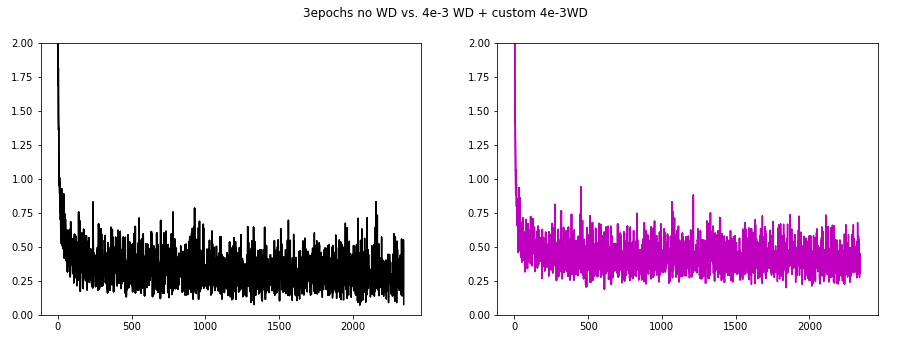
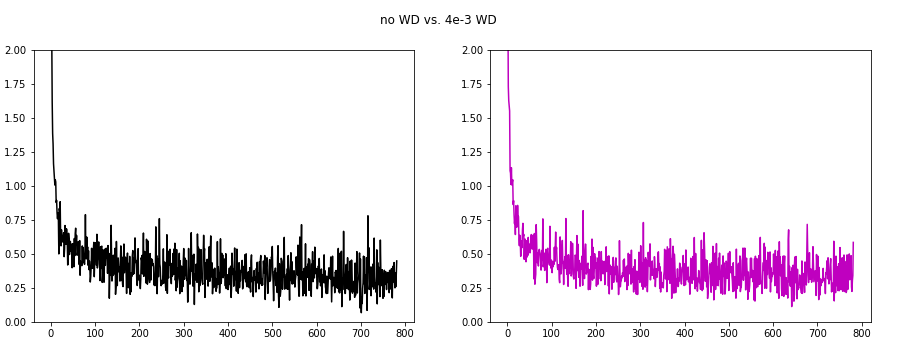
improvements

diff --git a/_posts/2019-07-02-Impact of WD.md b/_posts/2019-07-02-Impact of WD.md
@@ -3,51 +3,9 @@ published: true
 layout: post
 title: Impact of Weight Decay
 ---
-I am using in here the Logistic Regression neural network. This is a single linear layer (`nn.Linear` in PyTorch).
-
-<sub>That would be `Dense` layer in TensorFlow.</sub>
-
-This neural network doesn't even have a single activation function (`F.relu` or similar)
-
-The main reason to analyse LR is because it is simple, and can allow us to examine batch loss and impact of Weight Decay on BL.
-
-I created the following example using the MNIST dataset in PyTorch:
+Logistic Regression is a single linear layer (`nn.Linear` in PyTorch) neural network. We can write a custom module in PyTorch to create one.
 
 ```
-import torch
-import torch.nn as nn
-import torch.nn.functional as F
-from torch.utils.data import DataLoader, Dataset, TensorDataset
-from torch.optim import *
-import torchvision
-
-dl = DataLoader( torchvision.datasets.MNIST('/data/mnist', train=True, download=True), shuffle=False)
-
-tensor = dl.dataset.data
-tensor = tensor.to(dtype=torch.float32)
-tr = tensor.reshape(tensor.size(0), -1) 
-tr = tr/128 # tr = tr/255
-targets = dl.dataset.targets
-targets = targets.to(dtype=torch.long)
-
-x_train = tr[0:50000-1]
-y_train = targets[0:50000-1]
-x_valid = tr[50000:60000-1]
-y_valid = targets[50000:60000-1]
-
-bs=64
-
-train_ds = TensorDataset(x_train, y_train)
-train_dl = DataLoader(train_ds, batch_size=bs, drop_last=False, shuffle=True)
-
-valid_ds = TensorDataset(x_valid, y_valid)
-valid_dl = DataLoader(valid_ds, batch_size=bs * 2)
-
-loaders={}
-loaders['train'] = train_dl
-loaders['valid'] = valid_dl
-
-
 class M(nn.Module):
     'custom module'
     def __init__(self):
@@ -56,7 +14,23 @@ class M(nn.Module):
       
     def forward(self, xb):
         return self.lin(xb)
+```        
 
+<sub>That would be `Dense` layer in TensorFlow.</sub>
+
+This neural network doesn't even have a single activation function (`F.relu` or similar).
+
+The main reason to analyse Logistic Regression is because it is simple.
+
+The simplicity of this model can help us to examine batch loss and impact of Weight Decay on bach loss.
+
+I created the following [example](https://github.com/dejanbatanjac/pytorch-learning-101/blob/master/WD.ipynb) using the MNIST dataset in PyTorch.
+
+The model implements custom weight decay, as well uses SGD weight decay and Adam weight decay.
+
+The example has a `probe` function allows me to test different hyperparameters on the same LR model.
+
+```
 def probe(model, criterion, optimizer, bs, epochs, lr, wd_factor, color):
     
     losses=[]
@@ -96,29 +70,21 @@ def probe(model, criterion, optimizer, bs, epochs, lr, wd_factor, color):
         print("wd_factor", wd_factor)
         plt.plot(losses, color)
 
-
-# character 	color
-# b 	blue
-# g 	green
-# r 	red
-# c 	cyan
-# m 	magenta
-# y 	yellow
-# k 	black
-# w 	white        
 ```
 
-The `probe` function is what I will be using to examine things.
-I will be using two different optimizers, `Adam` and `SGD` that both have weight decay, but I also implemented weight decay to test as a separate.
+The optimizers are used like this:
 
-This is the simplest form of the optimizers (no momentum, no wd).
-optimizer = torch.optim.Adam(model.parameters(), lr=lr)
-optimizer = torch.optim.SGD(model.parameters(), lr=lr)
-
+```
+optimizer = torch.optim.Adam(model.parameters(), lr=0.1, weight_decay=4e-3)
+optimizer = torch.optim.SGD(model.parameters(), lr=0.1, weight_decay=4e-3, momentum=.9, nesterov=True)
+```
 
 Our criterion will be `nn.CrossEntropyLoss()`.
 
 ## Impact of the learning rate
+
+First I examined the learning rate I should use:
+
 ```
 criterion = nn.CrossEntropyLoss()
 
@@ -144,89 +110,87 @@ probe(model, criterion, optimizer, bs, epochs, lr, wd_factor, "b") #blue
 
 ![LSTM](/images/lreg1.png)
 
-This image represents a single epoch. Note how the biggest learning rate (red) decreases the batch loss really fast, but then has a strong oscillation, comparing to the blue.
+This image represents a single epoch. Note how the biggest learning rate (red) decreases the batch loss really fast, but oscillates stronger, comparing to the blue.
+
+At the end the cumulative epoch loss will be lower for the red so I decided to use `lr=1e-1`
 
 ```
 Epoch 0 #red
 Train loss: 0.3989532570761945
 Validation loss: 0.2992929560662825
-wd_factor 0.0
 Epoch 0 #green
 Train loss: 0.6678904935603251
 Validation loss: 0.40658352872993375
-wd_factor 0.0
 Epoch 0 #blue
 Train loss: 1.4549870281420705
 Validation loss: 0.9654966373986835
-wd_factor 0.0
 ```
 
-## Using WD 4e-3
+## Using Weight Decay 4e-3
 
-The basic assumption is that weight decay can fix these oscillations.
-I tried to understand the impact of `weight_decay=4e-3` on SGD.
+From the [document](https://arxiv.org/pdf/1803.09820.pdf) I found that `wd=4e-3` is often used so I selected that.
 
-For that I needed two subplots side by side:
-```
-fig, (ax1, ax2) = plt.subplots(1, 2)
-ax1.set_ylim(0,2)
-ax2.set_ylim(0,2)
-fig.suptitle('3epochs no WD vs. 4e-3 WD')
-fig.set_figheight(5)
-fig.set_figwidth(15)
-```
+The basic assumption what weight decay can do is it can fix the oscillations of the batch loss especially present in the previous image, red learning rate. 
 
-And I set 3 epochs area of comparison.
-```
-criterion = nn.CrossEntropyLoss()
-
-bs=64
-epochs = 3
-wd_factor = 0.0
-
-lr = 0.1
-model = M()
-optimizer = torch.optim.SGD(model.parameters(), lr=lr)
-probe(ax1, model, criterion, optimizer, bs, epochs, lr, wd_factor, "r") #red
-
-
-lr = 0.1
-model = M()
-optimizer = torch.optim.SGD(model.parameters(), lr=lr, weight_decay=4e-3)
-probe(ax2, model, criterion, optimizer, bs, epochs, lr, wd_factor, "c") #cian
-```
+I first tried to understand the impact of `weight_decay` on SGD.
+The left side shows the SGD with no WD, and the right side shows WD `4e-4`. 
 
 ![LSTM](/images/lreg2.png)
 
-As you can note even though I tried really hard to find ideal WD factor, the benefit was almost none.
-
-I tried in the next attempt to compared the two approaches, where I use SGD WD 4e-3 (black) and SGD WD 4e-3 together with custom WD 4e-3
-
-```
-lr = 0.1
-wd_factor=0
-model = M()
-optimizer = torch.optim.SGD(model.parameters(), lr=lr)
-probe(ax[0], model, criterion, optimizer, bs, epochs, lr, wd_factor, "k") #black
-
-
-lr = 0.1
-wd_factor=4e-3
-model = M()
-optimizer = torch.optim.SGD(model.parameters(), lr=lr,  weight_decay=4e-3)
-probe(ax[1], model, criterion, optimizer, bs, epochs, lr, wd_factor, "m") #magenta
-```
-
 ![LSTM](/images/lreg3.png)
 
-As you may see, the results are pretty mach the same except that using WD really has sense when parameters are growing big from some reason.
 
-However, there are other techniques to suppress the parameters to grow unreasonable, so WD is not so popular any more.
+The next image compares no WD with `4e-2` WD.
+
+![LSTM](/images/lreg4.png)
+
+This really make some change. The oscillations are reduced, but the loss increased a bit.
+
+
+The very next image shows no WD vs. `4e-1` WD. We are kind a increasing the loss overall, and it the oscillations are reduced.
+
+![LSTM](/images/lreg5.png)
+
+
+Now it is time to check the custom weight decay implemented like this:
+```
+wd = 0.
+for p in model.parameters(): 
+    wd += (p**2).sum()
+loss = criterion(output, target)+wd*wd_factor 
+```
+In blue are different WD values. We are on a single epoch with with SGD, and the `1e-1`:
+
+![LSTM](/images/lreg6.png)
+![LSTM](/images/lreg7.png)
+![LSTM](/images/lreg8.png)
+![LSTM](/images/lreg9.png)
+
+As we can see the oscillations are best suppressed for `wd=4e-2`, and again at this `wd` the loss will increase just a bit. 
+
+
+For the next three images we used the Nestorov momentum. However, we needed to decrease the learning rate to `1e-3` this time.
+
+WD `4e-1` seams to decrease the batch loss oscillations.
+
+![LSTM](/images/lreg10.png)
+![LSTM](/images/lreg11.png)
+![LSTM](/images/lreg12.png)
+
+
+Finally we examine the Adam optimizer. Again we needed to lower the learning rate to `1e-3`.
+
+WD `4e-1` seams to decrease the batch loss oscillations.
+
+![LSTM](/images/lreg13.png)
+![LSTM](/images/lreg14.png)
+![LSTM](/images/lreg15.png)
+
 
 
 ## Conclusion
 
-WD is a regularization term that penalizes big weights.
+Weight Decay is a regularization term that penalizes big weights.
 
 When the weight decay coefficient is big, the penalty for big weights is also big, when it is small weights still may grow.
 
@@ -245,5 +209,6 @@ $$ \triangledown \mathcal{L} = -\lambda \triangledown \mathcal{R}. $$
 This makes clear that we will not be at an optimium of the training loss. Even more so, the higher $\lambda$ the steeper the gradient of $\mathcal{L}$, which in the case of convex loss functions implies a higher distance from the optimum.
 
 Resources:
-[1](https://arxiv.org/pdf/1802.07042.pdf), 
-[2](https://stats.stackexchange.com/a/117625/228453)
+[1](https://arxiv.org/pdf/1803.09820.pdf)
+[2](https://arxiv.org/pdf/1802.07042.pdf), 
+[3](https://stats.stackexchange.com/a/117625/228453)
